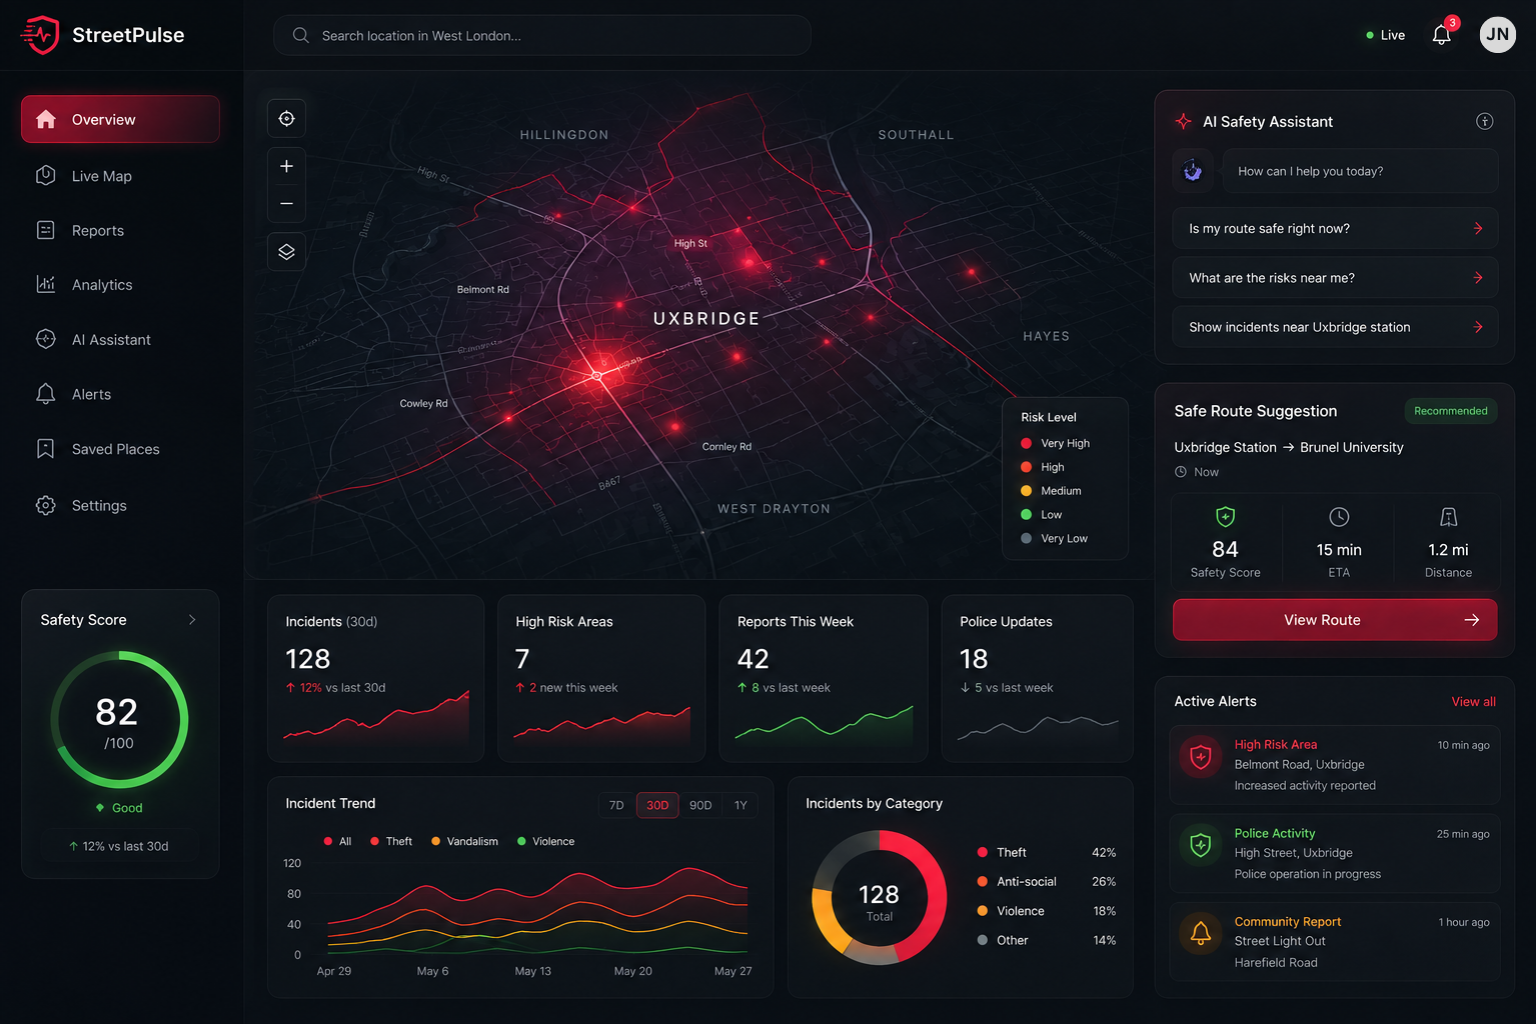
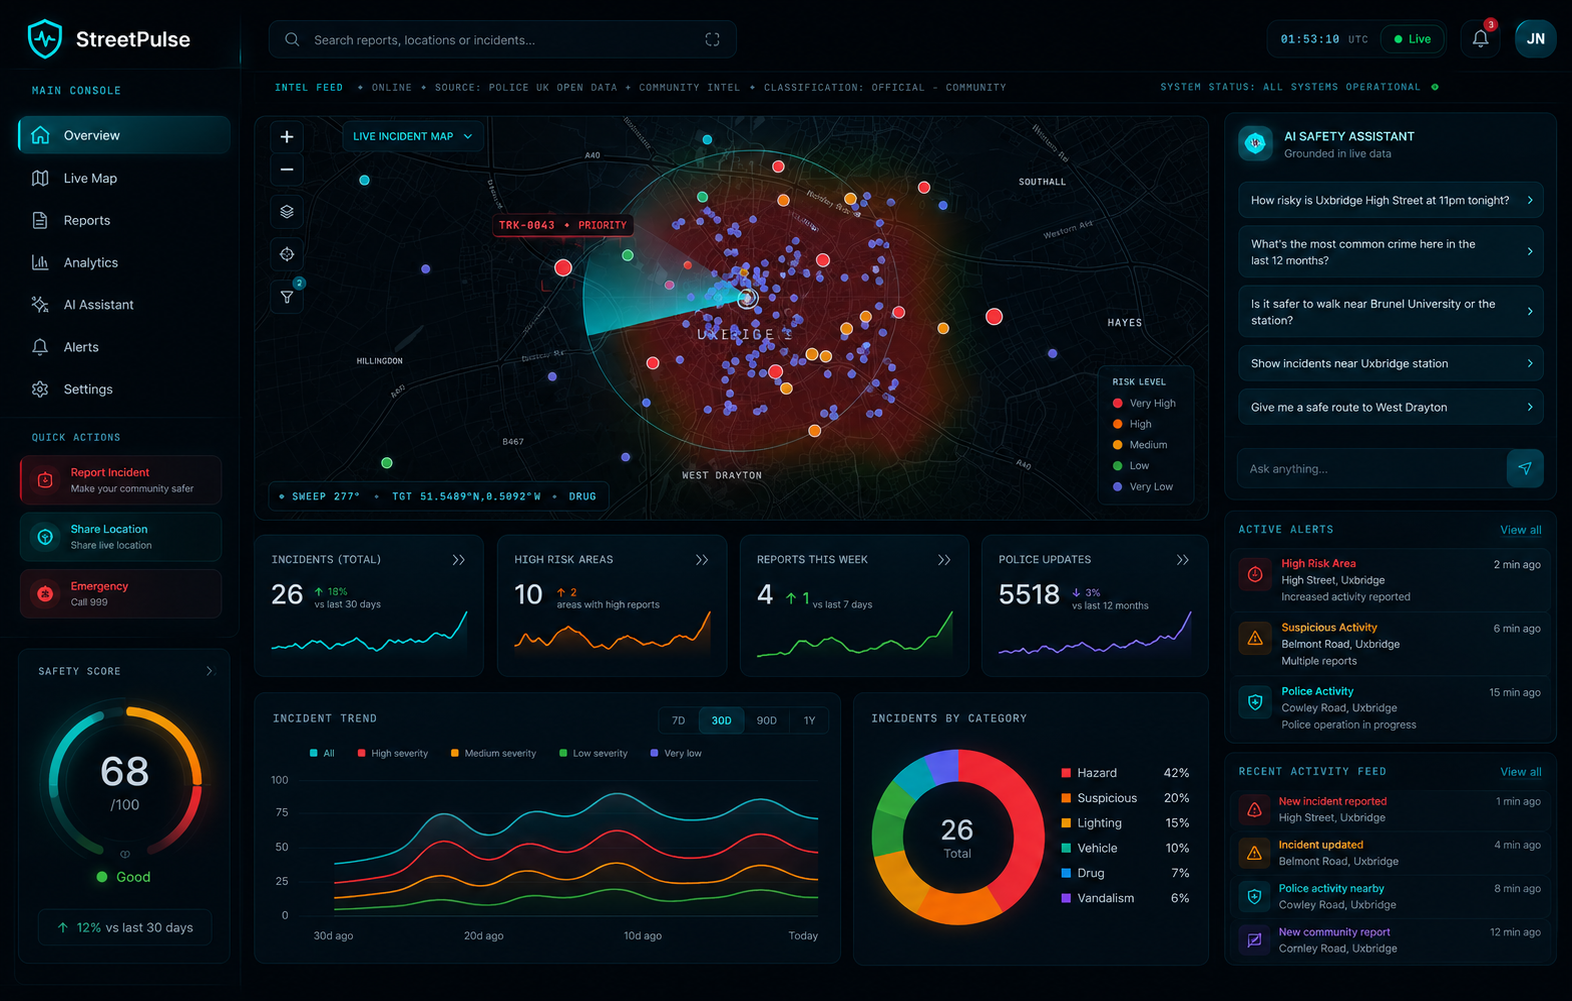
Update StreetPulse demo link and screenshot

diff --git a/src/data/content.js b/src/data/content.js
@@ -116,7 +116,7 @@ export const PROJECTS = [
     img: 'streetpulse',
     summary:
       'Real-time crime & incident mapping with risk scoring, AI assistant and heatmaps across West London.',
-    demo: 'https://github.com/Jawadnoori1718/streetpulse',
+    demo: 'https://street-pulse-urban-safety-intellige.vercel.app/',
     repo: 'https://github.com/Jawadnoori1718/streetpulse',
   },
   {